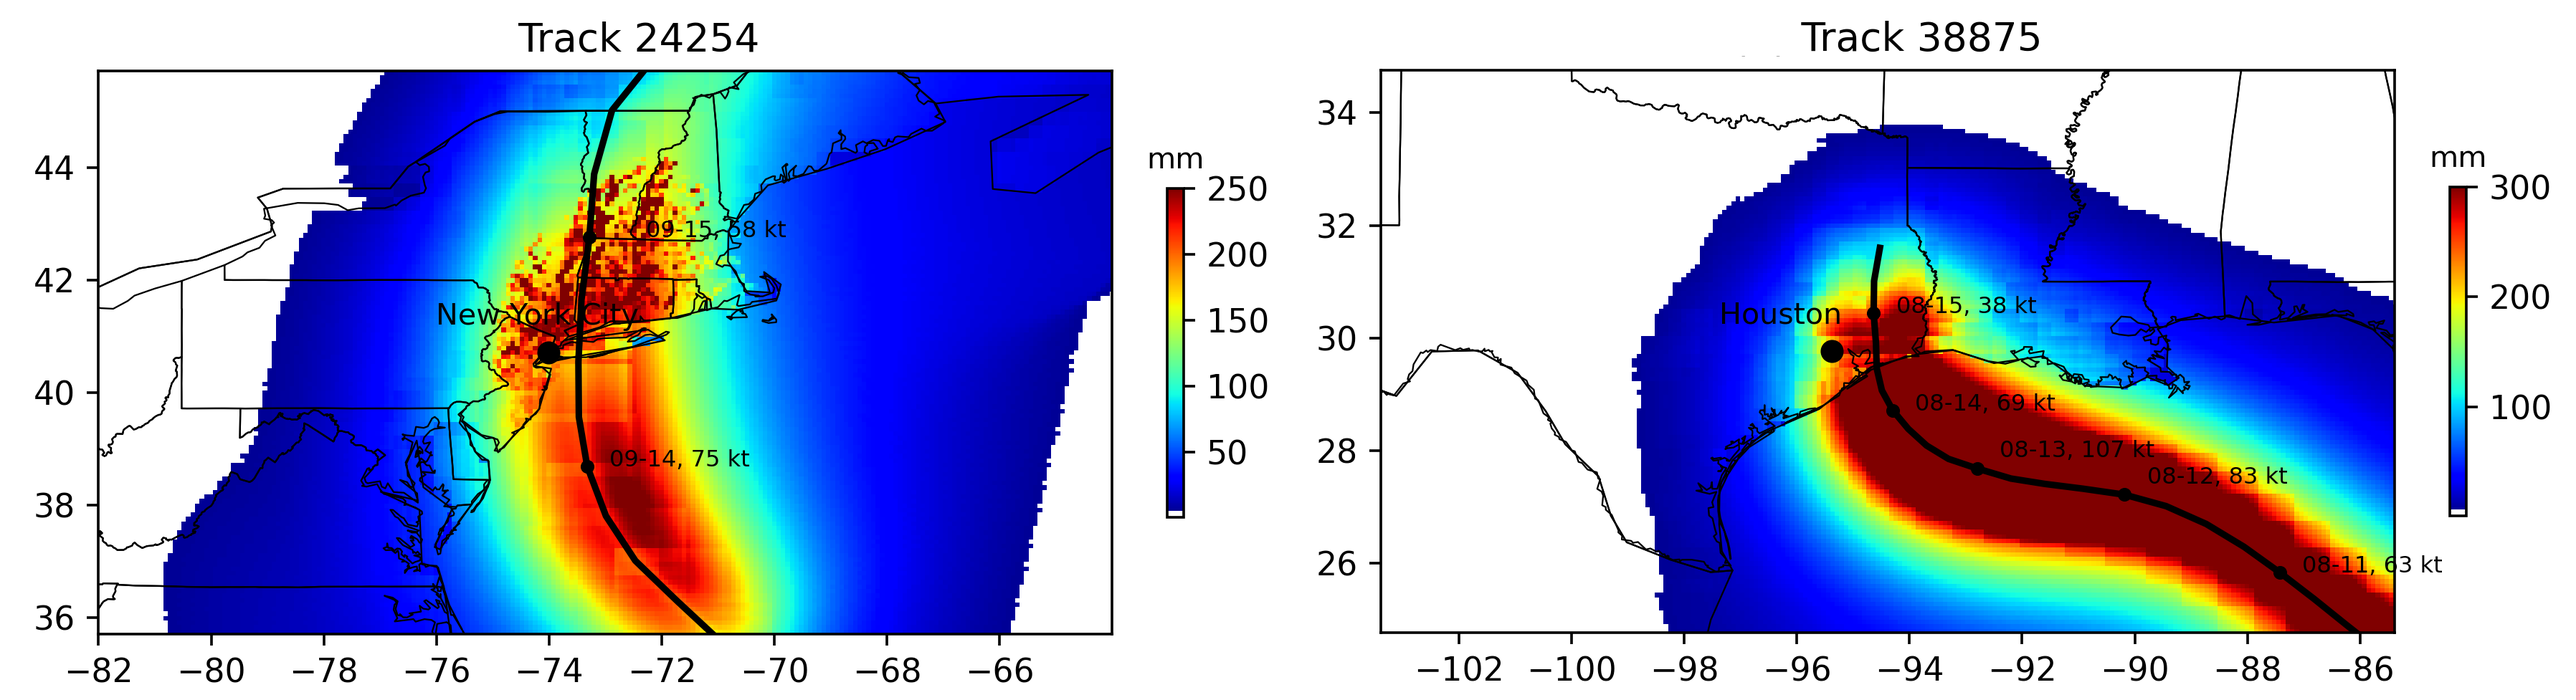
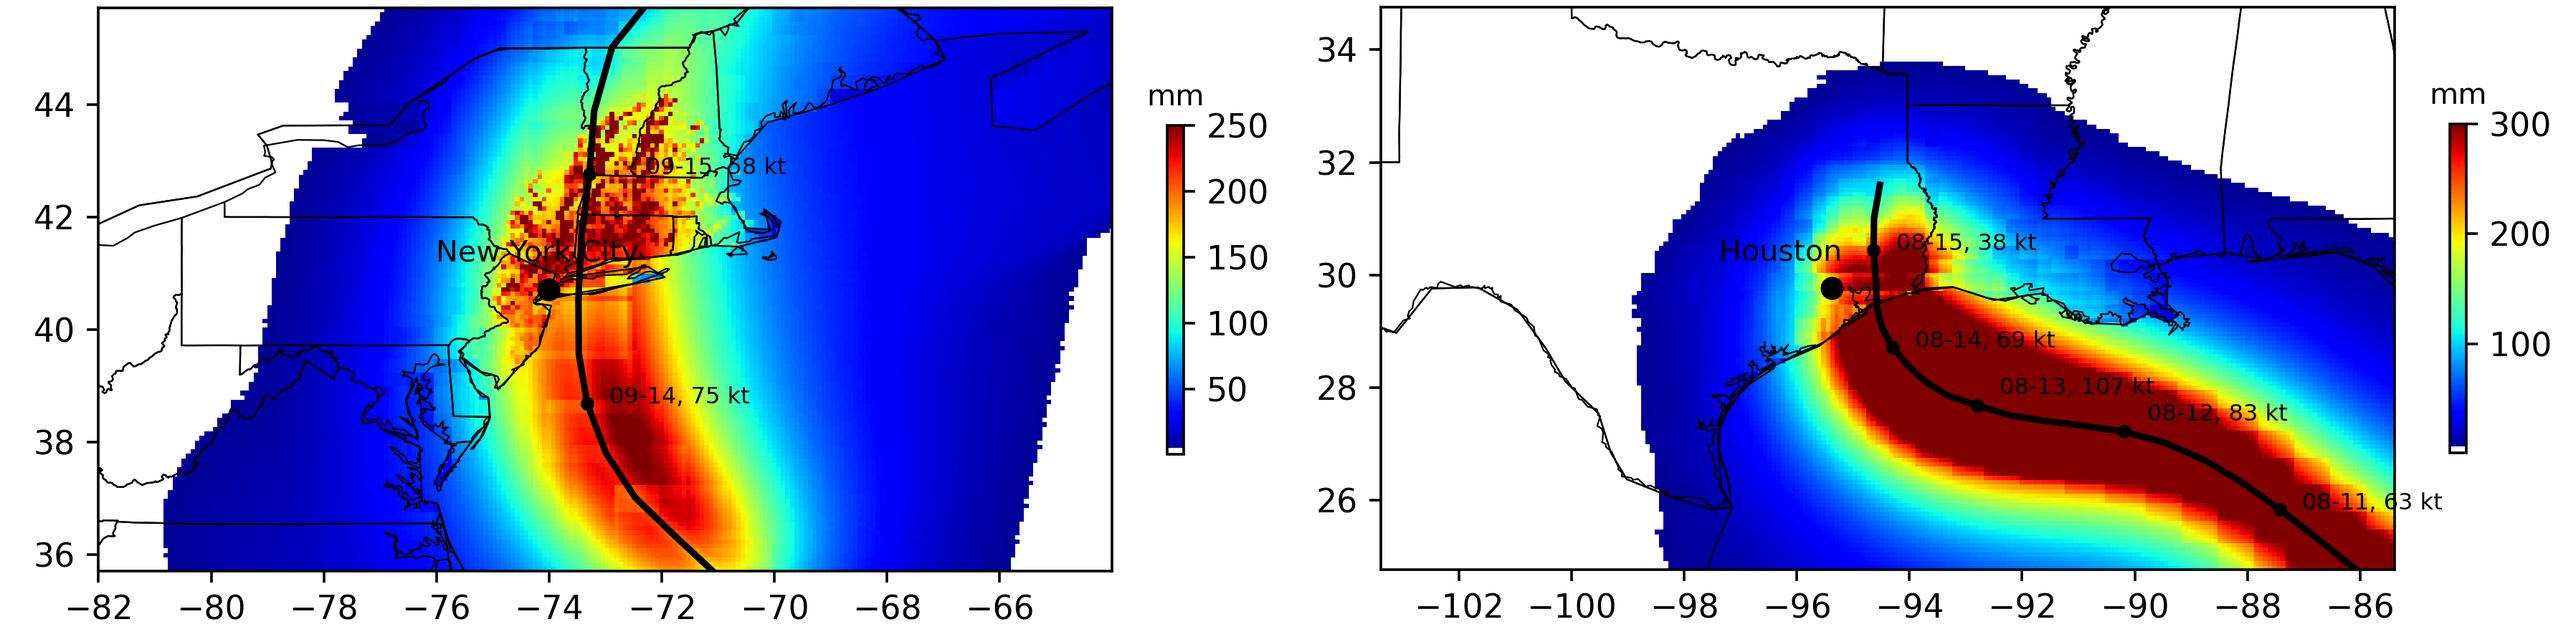
removed multipanel artifacts from images; added alt turbine dataset citation

diff --git a/README.md b/README.md
@@ -94,7 +94,7 @@ There are two rainfall models in this repository:
 A deep learning AI rainfall model is currently in development.
 
 ![Rainfall examples](/assets/img/rainfall.png)
-> _Accumulated TCR rainfall from two sample RAFT storms (Xu et al. [2024](https://doi.org/10.1038/s41597-024-02952-7))_
+> _Accumulated TCR rainfall from two sample RAFT storms affecting the New York and Houston regions (Xu et al. [2024](https://doi.org/10.1038/s41597-024-02952-7))_
 
 ### Storm Surge (DeepSurge)
 
@@ -166,6 +166,7 @@ Hub-height wind and damage probability maps for wind turbines exposed to RAFT-CM
 
 > Lipari, S., Balaguru, K., Rice, J., Feng, S., Xu, W., Berg, L., & Judi, D. (2024). Offshore wind turbine damage probability maps and hub height TC wind speeds for U.S. Atlantic and Gulf Coasts exposed to historical and future tropical cyclones [Dataset]. Zenodo. https://doi.org/10.5281/zenodo.13840812
 
+> Wind Data Hub. trexo/turbine_damage_probability. Maintained by Wind Data Hub for U.S. Department of Energy, Office of Energy Efficiency and Renewable Energy. DOI: https://doi.org/10.21947/2481035 Accessed: 12 Sept 2025.
 
 <br>
 <hr>
